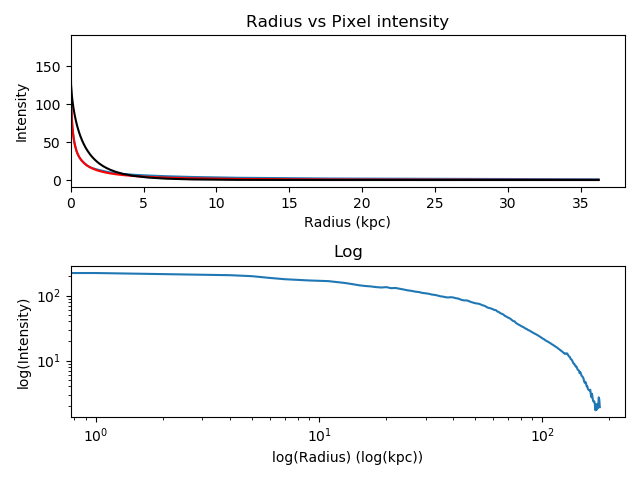
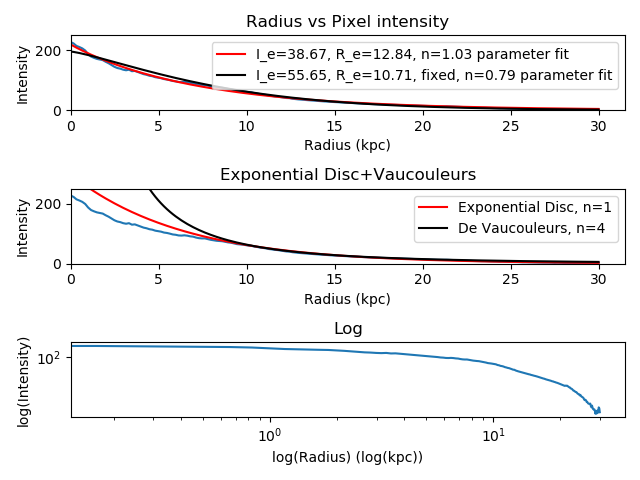
Radial Profile Changes Recalculated effective radius correctly, added exponential disc and de vacouleurs fits for comparison

diff --git a/RadialProfile.py b/RadialProfile.py
@@ -23,7 +23,6 @@ def radial_profile(image, center):
 	y1 = np.arange(0,npiy)
 	x,y = np.meshgrid(y1,x1)
 	r=np.sqrt((x-center[0])**2+(y-center[1])**2)
-	#r=r*300/256
 	r=r.astype(np.int)
 	image=image.mean(axis=2)
 	tbin=np.bincount(r.ravel(),image.ravel()) #sum of image values in each radius bin
@@ -36,21 +35,24 @@ def radialprofiletoSB(radialprofile):
 	SB=radialprofile/(ind*2*np.pi)
 	return SB, ind
 
-def findeffectiveradius(radialprofile):
-	totalbrightness=np.sum(radialprofile)
+def findeffectiveradius(radialprofile, r):
+	totalbrightness=np.sum(radialprofile * 2 * np.pi *r)
 	centralbrightness=radialprofile[0]
-	cumulativebrightness=np.cumsum(radialprofile)
-	r_e=(np.abs((totalbrightness/2) - cumulativebrightness)).argmin() +1
-	i_e= radialprofile[r_e-1]
-	return totalbrightness, r_e, centralbrightness, i_e
+	cumulativebrightness=np.cumsum(radialprofile * 2 * np.pi *r)
+	r_e_unnormalised=((np.abs((totalbrightness/2) - cumulativebrightness)).argmin())
+	r_e=r_e_unnormalised*(30.0/len(r))
+	i_e= radialprofile[r_e_unnormalised-1]
+	print(totalbrightness)
+	print(r_e_unnormalised-1)
+	print(cumulativebrightness[r_e_unnormalised-1])
+	print(i_e)
+	return i_e, r_e, centralbrightness, totalbrightness
 
 def SersicProfile(r, I_e, R_e, n):
 	b=np.exp(0.6950 + np.log(n) - (0.1789/n))
 	G=(r/R_e)**(1/n)
 	return I_e*np.exp((-b*(G-1)))
 
-def SersicProfile2(r,k,b,n):
-	return k*np.exp(-b*(r**(1/n)))
 
 def run_radial_profile(image, imagefile):
 	#plots radius vs pixel intensity and its log
@@ -59,20 +61,31 @@ def run_radial_profile(image, imagefile):
 	cy=int(height/2)
 	maxVal, center = findcenter(image)
 	rad=radial_profile(image,center)
-	SB, r=radialprofiletoSB(rad)
-	totalbrightness, r_e , centralbrightness, i_e= findeffectiveradius(SB) 
+	r= np.linspace(0, 30.0, num=len(rad))
+	#SB, r=radialprofiletoSB(rad)
+	i_e, r_e, centralbrightness, totalbrightness= findeffectiveradius(rad, r) 
 	print("I_e={}, R_e={}".format(i_e, r_e))
-	popt1,pcov1=curve_fit(SersicProfile, SB, r, p0=(i_e, r_e, 1), bounds=((0,0,0), (np.inf,np.inf,10)))
-	popt2,pcov2 = curve_fit(lambda x,n: SersicProfile(x, i_e, r_e, n), SB, r)
+	popt1, pcov1=curve_fit(SersicProfile, r, rad, p0=(i_e, r_e, 1), bounds=((0,0,0.001), (np.inf,np.inf,10)))
+	popt2, pcov2 = curve_fit(lambda x,n: SersicProfile(x, i_e, r_e, n), r, rad)
 	print("I_e,R_e,n={}".format(popt1))
 	print("I_e={}, R_e={}, n={}".format(i_e, r_e, popt2))
-	plt.subplot(211)
-	plt.plot(SB, r)
-	plt.plot(SB, SersicProfile(SB,*popt1), 'r-')
-	plt.plot(SB, SersicProfile(SB,i_e, r_e, popt2), 'k-')
-	plt.title('Radius vs Pixel intensity'), plt.xlabel('Radius (kpc)'), plt.ylabel('Intensity'), plt.xlim(0)
-	plt.subplot(212)
-	plt.plot(rad)
+
+	plt.subplot(311)
+	plt.plot(r, rad)
+	plt.plot(r, SersicProfile(r,*popt1), 'r-', label='I_e={}, R_e={}, n={} parameter fit'.format(round(popt1[0],2),round(popt1[1],2),round(popt1[2],2)))
+	plt.plot(r, SersicProfile(r,i_e, r_e, popt2), 'k-', label='I_e={}, R_e={}, fixed, n={} parameter fit'.format(round(i_e,2), round(r_e,2), round(popt2[0],2)))
+	plt.title('Radius vs Pixel intensity'), plt.xlabel('Radius (kpc)'), plt.ylabel('Intensity'), plt.xlim(0), plt.ylim(0,250)
+	plt.legend()
+
+	plt.subplot(312)
+	plt.plot(r, rad)
+	plt.plot(r, SersicProfile(r,i_e, r_e, 1), 'r-', label='Exponential Disc, n=1')
+	plt.plot(r, SersicProfile(r,i_e, r_e, 4), 'k-', label='De Vaucouleurs, n=4')
+	plt.title('Exponential Disc+Vaucouleurs'), plt.xlabel('Radius (kpc)'), plt.ylabel('Intensity'), plt.xlim(0), plt.ylim(0,250)
+	plt.legend()
+
+	plt.subplot(313)
+	plt.plot(r, rad)
 	plt.title('Log'), plt.xlabel('log(Radius) (log(kpc))'), plt.ylabel('log(Intensity)')
 	plt.xscale('log')
 	plt.yscale('log')
@@ -81,8 +94,6 @@ def run_radial_profile(image, imagefile):
 	plt.show()
 
 if __name__ == "__main__":
-	imagefile='RecalL0025N0752galface_659536.png'
+	imagefile='RecalL0025N0752galface_838817.png'
 	image=plt.imread('galaxyimagebinRecal/'+imagefile, 0)
 	run_radial_profile(image, imagefile)
-
-	#testcommit
